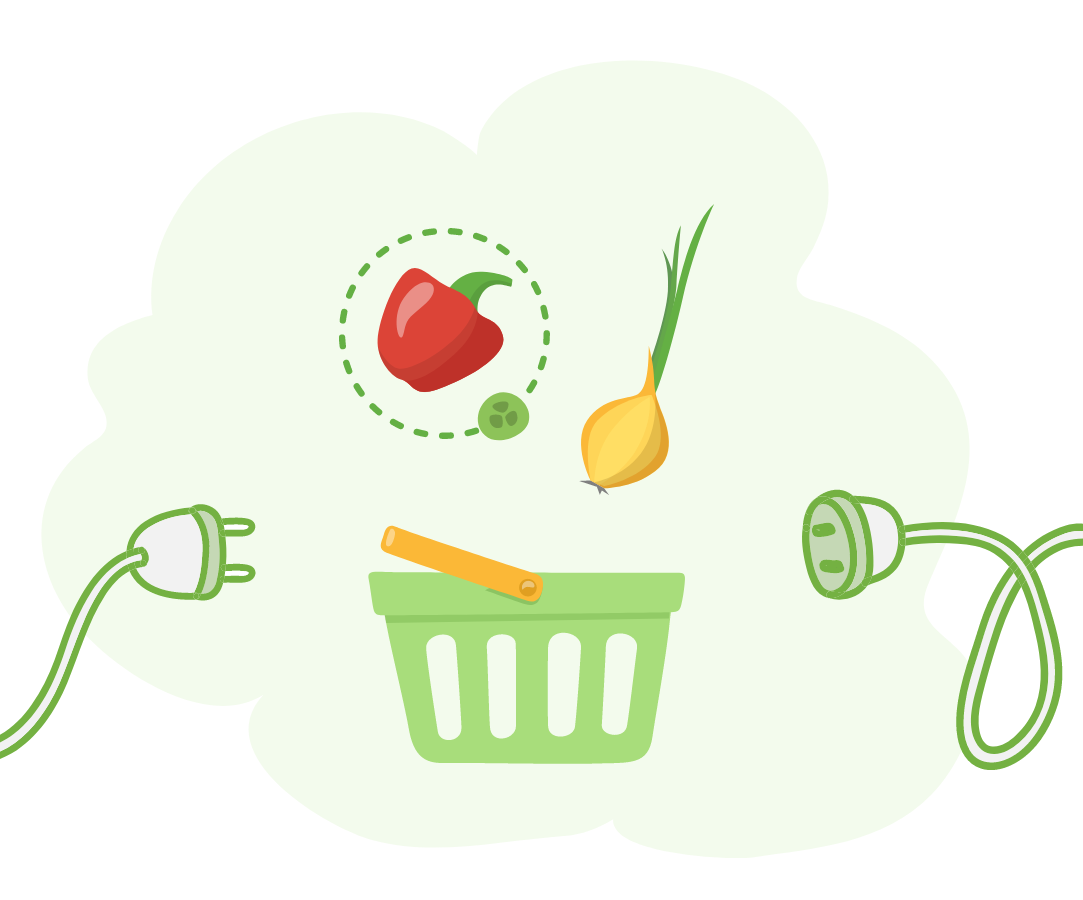
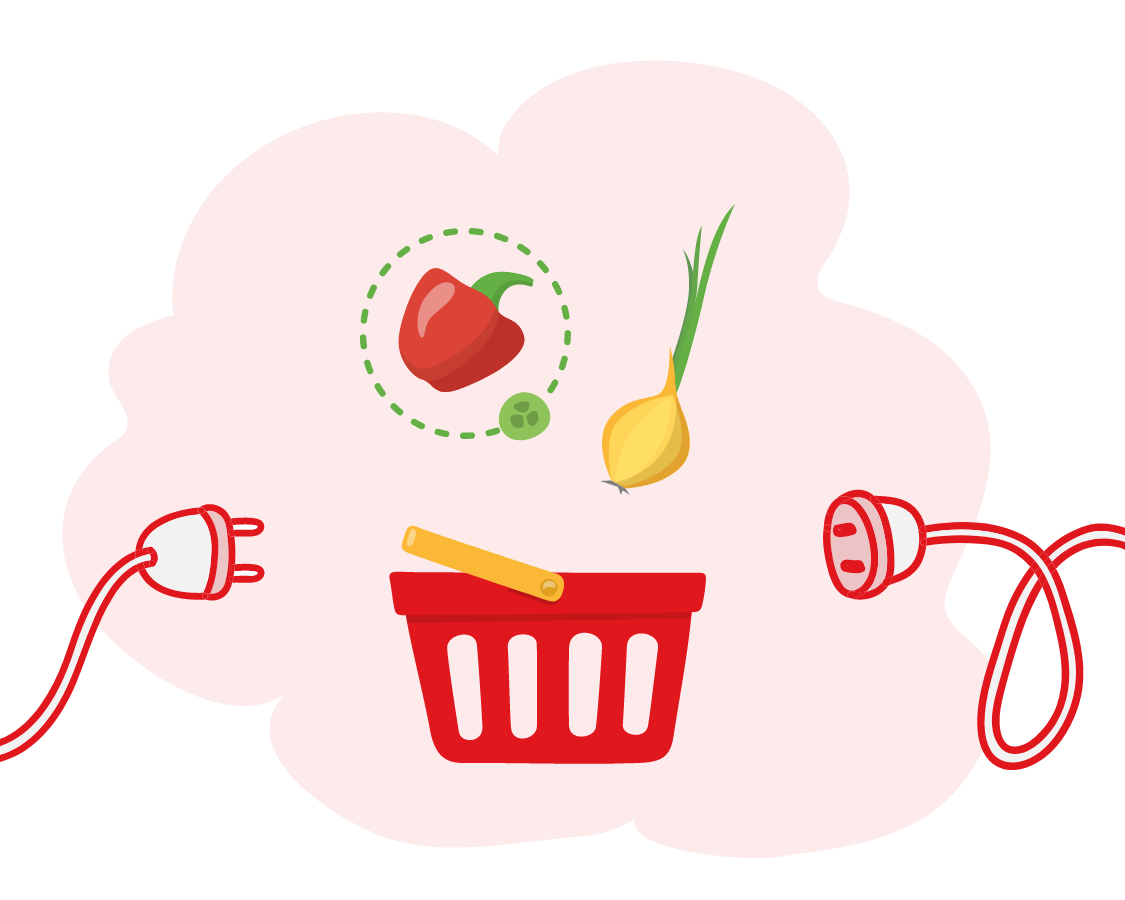
theme color changing, empty cart design, disable slot after 9 fix,issue fix in sheet

diff --git a/src/components/cartStack/CheckoutScreen.js b/src/components/cartStack/CheckoutScreen.js
@@ -19,6 +19,7 @@ const CheckoutScreen = ({ navigation, cartItems, clearCart, getDeliverySlots, ad
     const [nextDayBuffer, setNextDayBuffer] = useState(1)
     const [savedValue, setSavedValue] = useState(0)
     const [slot, setSlot] = useState({})
+    const [disableTomorrowSlot, setDisableTomorrowSlot] = useState(false)
     useEffect(() => {
         if (cartItems.length > 0) {
             let total = cartItems.reduce(function (sum, item) {
@@ -45,8 +46,22 @@ const CheckoutScreen = ({ navigation, cartItems, clearCart, getDeliverySlots, ad
                 setSlot({})
             }
         })
+        var today = new Date();
+        var hour = today.getHours();
+        if (hour >= 21) {
+            setDisableTomorrowSlot(true)
+        }
     }, [nextDayBuffer, userLocation])
 
+    useEffect(() => {
+        var today = new Date();
+        var hour = today.getHours();
+        if (hour >= 21) {
+            // alert(hour)
+            setNextDayBuffer(2)
+            setDisableTomorrowSlot(true)
+        }
+    }, [])
 
     const onClearCart = async () => {
         clearCart()
@@ -86,7 +101,7 @@ const CheckoutScreen = ({ navigation, cartItems, clearCart, getDeliverySlots, ad
 
                 var options = {
                     description: 'Select the payment method',
-                    image: 'https://i.imgur.com/3g7nmJC.png',
+                    image: 'https://d26w0wnuoojc4r.cloudfront.net/zasket_logo_3x.png',
                     currency: 'INR',
                     key: RazorpayApiKey,
                     amount: totalCartValue,
@@ -122,19 +137,26 @@ const CheckoutScreen = ({ navigation, cartItems, clearCart, getDeliverySlots, ad
                 <View style={{ backgroundColor: 'white', paddingVertical: 10, paddingHorizontal: 16, marginTop: 10 }}>
                     <Text style={{ fontWeight: 'bold', fontSize: 16 }}>Book a slot</Text>
                     <View style={{ flexDirection: 'row', justifyContent: 'space-between', marginTop: 10, height: 60 }}>
-                        <TouchableOpacity activeOpacity={0.7} onPress={() => { onPressSlot(1) }} style={{ padding: 10, minWidth: 70, borderWidth: 1, borderRadius: 5, borderColor: nextDayBuffer == 1 ? Theme.Colors.primary : "#EFEFEF", backgroundColor: nextDayBuffer == 1 ? '#F1FAEA' : "white", justifyContent: 'center', alignItems: 'center' }}>
-                            <Text style={{ color: '#727272', fontSize: 12 }}>Tomorrow</Text>
-                            <Text style={{ fontSize: 12, fontWeight: 'bold' }}>{moment().add(1, 'days').format("DD MMM")}</Text>
-                        </TouchableOpacity>
-                        <TouchableOpacity activeOpacity={0.7} onPress={() => { onPressSlot(2) }} style={{ padding: 10, minWidth: 70, borderWidth: 1, borderRadius: 5, borderColor: nextDayBuffer == 2 ? Theme.Colors.primary : "#EFEFEF", backgroundColor: nextDayBuffer == 2 ? '#F1FAEA' : "white", justifyContent: 'center', alignItems: 'center' }}>
+                        {disableTomorrowSlot ?
+                            <View style={{ padding: 10, minWidth: 70, borderWidth: 1, borderRadius: 5, borderColor: "#EFEFEF", backgroundColor: "#F1F1F1", justifyContent: 'center', alignItems: 'center' }}>
+                                <Text style={{ color: '#727272', fontSize: 12 }}>Tomorrow</Text>
+                                <Text style={{ fontSize: 12, fontWeight: 'bold' }}>{moment().add(1, 'days').format("DD MMM")}</Text>
+                            </View>
+                            :
+                            <TouchableOpacity activeOpacity={0.7} onPress={() => { onPressSlot(1) }} style={{ padding: 10, minWidth: 70, borderWidth: 1, borderRadius: 5, borderColor: nextDayBuffer == 1 ? Theme.Colors.primary : "#EFEFEF", backgroundColor: nextDayBuffer == 1 ? '#FDEFEF' : "white", justifyContent: 'center', alignItems: 'center' }}>
+                                <Text style={{ color: '#727272', fontSize: 12 }}>Tomorrow</Text>
+                                <Text style={{ fontSize: 12, fontWeight: 'bold' }}>{moment().add(1, 'days').format("DD MMM")}</Text>
+                            </TouchableOpacity>
+                        }
+                        <TouchableOpacity activeOpacity={0.7} onPress={() => { onPressSlot(2) }} style={{ padding: 10, minWidth: 70, borderWidth: 1, borderRadius: 5, borderColor: nextDayBuffer == 2 ? Theme.Colors.primary : "#EFEFEF", backgroundColor: nextDayBuffer == 2 ? '#FDEFEF' : "white", justifyContent: 'center', alignItems: 'center' }}>
                             <Text style={{ color: '#727272', fontSize: 12 }}>{moment().add(2, 'days').format("ddd")}</Text>
                             <Text style={{ fontSize: 12, fontWeight: 'bold' }}>{moment().add(2, 'days').format("DD MMM")}</Text>
                         </TouchableOpacity>
-                        <TouchableOpacity activeOpacity={0.7} onPress={() => { onPressSlot(3) }} style={{ padding: 10, minWidth: 70, borderWidth: 1, borderRadius: 5, borderColor: nextDayBuffer == 3 ? Theme.Colors.primary : "#EFEFEF", backgroundColor: nextDayBuffer == 3 ? '#F1FAEA' : "white", justifyContent: 'center', alignItems: 'center' }}>
+                        <TouchableOpacity activeOpacity={0.7} onPress={() => { onPressSlot(3) }} style={{ padding: 10, minWidth: 70, borderWidth: 1, borderRadius: 5, borderColor: nextDayBuffer == 3 ? Theme.Colors.primary : "#EFEFEF", backgroundColor: nextDayBuffer == 3 ? '#FDEFEF' : "white", justifyContent: 'center', alignItems: 'center' }}>
                             <Text style={{ color: '#727272', fontSize: 12 }}>{moment().add(3, 'days').format("ddd")}</Text>
                             <Text style={{ fontSize: 12, fontWeight: 'bold' }}>{moment().add(3, 'days').format("DD MMM")}</Text>
                         </TouchableOpacity>
-                        <TouchableOpacity activeOpacity={0.7} onPress={() => { onPressSlot(4) }} style={{ padding: 10, minWidth: 70, borderWidth: 1, borderRadius: 5, borderColor: nextDayBuffer == 4 ? Theme.Colors.primary : "#EFEFEF", backgroundColor: nextDayBuffer == 4 ? '#F1FAEA' : "white", justifyContent: 'center', alignItems: 'center' }}>
+                        <TouchableOpacity activeOpacity={0.7} onPress={() => { onPressSlot(4) }} style={{ padding: 10, minWidth: 70, borderWidth: 1, borderRadius: 5, borderColor: nextDayBuffer == 4 ? Theme.Colors.primary : "#EFEFEF", backgroundColor: nextDayBuffer == 4 ? '#FDEFEF' : "white", justifyContent: 'center', alignItems: 'center' }}>
                             <Text style={{ color: '#727272', fontSize: 12 }}>{moment().add(4, 'days').format("ddd")}</Text>
                             <Text style={{ fontSize: 12, fontWeight: 'bold' }}>{moment().add(4, 'days').format("DD MMM")}</Text>
                         </TouchableOpacity>
@@ -149,7 +171,7 @@ const CheckoutScreen = ({ navigation, cartItems, clearCart, getDeliverySlots, ad
                 </View>
 
                 <View style={{ backgroundColor: 'white', flexDirection: 'row', paddingVertical: 10, paddingHorizontal: 16, marginTop: 10 }}>
-                    <View style={{ width: 60, height: 60, borderWidth: 1, borderRadius: 5, borderColor: Theme.Colors.primary, backgroundColor: '#F1FAEA', justifyContent: 'center', alignItems: 'center' }}>
+                    <View style={{ width: 60, height: 60, borderWidth: 1, borderRadius: 5, borderColor: Theme.Colors.primary, backgroundColor: '#FDEFEF', justifyContent: 'center', alignItems: 'center' }}>
                         <Image
                             style={{ width: 30, height: 30, }}
                             source={require('../../assets/png/locationIcon.png')}
@@ -180,7 +202,7 @@ const CheckoutScreen = ({ navigation, cartItems, clearCart, getDeliverySlots, ad
                                 }</Text>
                             </View>
                             <TouchableOpacity onPress={() => { navigation.navigate('MapScreen', { fromScreen: "CartScreen" }) }} style={{}}>
-                                <Text style={{ color: "#73C92D" }}>Change</Text>
+                                <Text style={{ color: Theme.Colors.primary }}>Change</Text>
                             </TouchableOpacity>
                         </View>
                         <Text numberOfLines={2} style={{ color: "#909090", fontSize: 13, marginTop: 5 }}>{userLocation?.addressLine_1}</Text>
@@ -203,7 +225,7 @@ const CheckoutScreen = ({ navigation, cartItems, clearCart, getDeliverySlots, ad
                         <Text style={{ fontWeight: 'bold' }}>₹ {totalCartValue}</Text>
                     </View>
                     {savedValue > 0 ?
-                        <View style={{ height: 40, width: "100%", flexDirection: 'column', justifyContent: 'center', borderColor: Theme.Colors.primary, alignSelf: 'center', marginTop: 20, borderStyle: 'dashed', borderWidth: 1.5, borderRadius: 4, backgroundColor: "#F1FAEA", alignItems: "center" }}>
+                        <View style={{ height: 40, width: "100%", flexDirection: 'column', justifyContent: 'center', borderColor: Theme.Colors.primary, alignSelf: 'center', marginTop: 20, borderStyle: 'dashed', borderWidth: 1.5, borderRadius: 4, backgroundColor: "#FDEFEF", alignItems: "center" }}>
                             <Text style={{ color: Theme.Colors.primary }}>😊 You have saved Rs {savedValue} in this purchase</Text>
                         </View>
                         : undefined}

diff --git a/src/components/cartStack/CartScreen.js b/src/components/cartStack/CartScreen.js
@@ -41,13 +41,14 @@ const CartScreen = ({ navigation, cartItems, clearCart, userLocation }) => {
     }
 
 
+
     return (
         <View style={{ flex: 1, backgroundColor: 'white' }}>
             <CustomHeader navigation={navigation} title={"Cart"} showSearch={false} />
             <ScrollView ref={scrollViewRef} style={{ flex: 1, backgroundColor: '#F8F8F8' }} showsVerticalScrollIndicator={false}>
                 {/* <Text style={{ textAlign: 'center', marginBottom: 16 }}>{JSON.stringify(location, null, "       ")}</Text> */}
                 <View style={{ backgroundColor: 'white', flexDirection: 'row', paddingVertical: 10, paddingHorizontal: 16, marginTop: 10 }}>
-                    <View style={{ width: 60, height: 60, borderWidth: 1, borderRadius: 5, borderColor: Theme.Colors.primary, backgroundColor: '#F1FAEA', justifyContent: 'center', alignItems: 'center' }}>
+                    <View style={{ width: 60, height: 60, borderWidth: 1, borderRadius: 5, borderColor: Theme.Colors.primary, backgroundColor: '#FDEFEF', justifyContent: 'center', alignItems: 'center' }}>
                         <Image
                             style={{ width: 30, height: 30, }}
                             source={require('../../assets/png/locationIcon.png')}
@@ -79,7 +80,7 @@ const CartScreen = ({ navigation, cartItems, clearCart, userLocation }) => {
                                 </Text>
                             </View>
                             <TouchableOpacity onPress={() => { navigation.navigate('MapScreen', { fromScreen: "CartScreen" }) }} style={{}}>
-                                <Text style={{ color: "#73C92D" }}>Change</Text>
+                                <Text style={{ color: Theme.Colors.primary }}>Change</Text>
                             </TouchableOpacity>
                         </View>
                         <Text numberOfLines={2} style={{ color: "#909090", fontSize: 13, marginTop: 5 }}>{userLocation?.addressLine_1}</Text>
@@ -119,13 +120,29 @@ const CartScreen = ({ navigation, cartItems, clearCart, userLocation }) => {
                                 <Text style={{ fontWeight: 'bold' }}>₹ {totalCartValue}</Text>
                             </View>
                             {savedValue > 0 ?
-                                <View style={{ height: 40, width: "100%", flexDirection: 'column', justifyContent: 'center', borderColor: Theme.Colors.primary, alignSelf: 'center', marginTop: 20, borderStyle: 'dashed', borderWidth: 1.5, borderRadius: 4, backgroundColor: "#F1FAEA", alignItems: "center" }}>
+                                <View style={{ height: 40, width: "100%", flexDirection: 'column', justifyContent: 'center', borderColor: Theme.Colors.primary, alignSelf: 'center', marginTop: 20, borderStyle: 'dashed', borderWidth: 1.5, borderRadius: 4, backgroundColor: "#FDEFEF", alignItems: "center" }}>
                                     <Text style={{ color: Theme.Colors.primary }}>😊 You have saved Rs {savedValue} in this purchase</Text>
                                 </View>
                                 : undefined}
                         </View>
                     </>
-                    : undefined}
+                    :
+                    <View style={[{ flex: 1, alignSelf: 'center', justifyContent: 'center', }]}>
+                        <Image
+                            style={{ height: 250 }}
+                            resizeMode={"center"}
+                            source={require('../../assets/png/emptyCart.png')}
+                        />
+                        <View style={{ width: "80%", alignSelf: 'center' }}>
+                            <Text style={{ alignSelf: 'center', textAlign: 'center', fontWeight: 'bold', fontSize: 18 }}>Your cart is empty!</Text>
+                            <Text style={{ alignSelf: 'center', textAlign: 'center', color: '#727272', fontSize: 12 }}>There is always something good for you.</Text>
+                            <Text style={{ alignSelf: 'center', textAlign: 'center', color: '#727272', fontSize: 12 }}>Add something from the list.</Text>
+                            <TouchableOpacity onPress={() => { navigation.navigate('Home') }} style={{ flex: 1, backgroundColor: Theme.Colors.primary, borderRadius: 100, justifyContent: 'center', alignItems: "center", padding: 10, marginTop: 15, width: 200, alignSelf: 'center' }}>
+                                <Text style={{ color: 'white', fontSize: 17 }}>Add Now</Text>
+                            </TouchableOpacity>
+                        </View>
+                    </View>
+                }
                 {/* <Text style={{ textAlign: 'center', marginBottom: 16 }}>
                     {JSON.stringify(cartItems, null, "       ")}
                 </Text> */}

diff --git a/src/components/ProductScreens/ProductDetailScreen.js b/src/components/ProductScreens/ProductDetailScreen.js
@@ -115,8 +115,14 @@ const ProductDetailScreen = ({ navigation, route, getItem, addToCart, updateCart
                     <Text style={{ marginTop: 5, fontSize: 20, color: '#2E2E2E', fontWeight: 'bold', textTransform: 'capitalize' }}>{item?.itemName}</Text>
                     <View style={{ flexDirection: 'row', marginTop: 5, alignItems: 'center' }}>
                         <Text style={{ fontSize: 18, color: '#2E2E2E', fontWeight: 'bold', textTransform: 'capitalize' }}>₹{item?.discountedPrice}</Text>
-                        <Text style={{ fontSize: 15, color: '#909090', textDecorationLine: 'line-through', marginLeft: 10 }}>₹{item?.actualPrice}</Text>
-                        <Text style={{ fontSize: 15, color: Theme.Colors.primary, marginLeft: 10 }}>{(((item?.actualPrice - item?.discountedPrice) / item?.actualPrice) * 100).toFixed(0)}% off</Text>
+                        {item?.discountedPrice == item?.actualPrice ?
+                            undefined :
+                            <Text style={{ fontSize: 14, color: '#909090', textDecorationLine: 'line-through', marginLeft: 10 }}>₹{item?.actualPrice}</Text>
+                        }
+                        {(((item?.actualPrice - item?.discountedPrice) / item?.actualPrice) * 100).toFixed(0) == 0 ?
+                            undefined :
+                            <Text style={{ fontSize: 15, color: Theme.Colors.primary, marginLeft: 10 }}>{(((item?.actualPrice - item?.discountedPrice) / item?.actualPrice) * 100).toFixed(0)}% off</Text>
+                        }
                     </View>
                     <Text style={{ marginTop: 5, color: '#909090', }}>{item?.itemSubName}</Text>
                     <Text style={{ marginTop: 10, color: '#727272', }}>{item?.itemDescription}</Text>
@@ -133,12 +139,11 @@ const ProductDetailScreen = ({ navigation, route, getItem, addToCart, updateCart
                     <Text style={{ alignSelf: 'center', color: 'white', fontWeight: 'bold' }}>+  Add</Text>
                 </TouchableOpacity>
                 : <View style={{ backgroundColor: Theme.Colors.primary, height: 50, flexDirection: 'row', justifyContent: 'space-evenly' }}>
-
-                    <TouchableOpacity onPress={() => onCartUpdate('DECREASE')} style={{ width: 35, height: 35, backgroundColor: "#60B11F", borderRadius: 4, justifyContent: 'center', alignSelf: 'center' }}>
+                    <TouchableOpacity onPress={() => onCartUpdate('DECREASE')} style={{ width: 35, height: 35, backgroundColor: "#B90E14", borderRadius: 4, justifyContent: 'center', alignSelf: 'center' }}>
                         <Text style={{ alignSelf: 'center', color: 'white', fontWeight: 'bold', fontSize: 20 }}>-</Text>
                     </TouchableOpacity>
                     <Text style={{ color: 'white', alignSelf: 'center', fontSize: 18 }}>{count}</Text>
-                    <TouchableOpacity onPress={() => onCartUpdate('INCREASE')} style={{ width: 35, height: 35, backgroundColor: "#60B11F", borderRadius: 4, justifyContent: 'center', alignSelf: 'center' }}>
+                    <TouchableOpacity onPress={() => onCartUpdate('INCREASE')} style={{ width: 35, height: 35, backgroundColor: "#B90E14", borderRadius: 4, justifyContent: 'center', alignSelf: 'center' }}>
                         <Text style={{ alignSelf: 'center', color: 'white', fontWeight: 'bold', fontSize: 20 }}>+</Text>
                     </TouchableOpacity>
                 </View>

diff --git a/src/components/AccountStack/MyOrders.js b/src/components/AccountStack/MyOrders.js
@@ -50,6 +50,30 @@ const MyOrders = ({ navigation, getCustomerOrders }) => {
                     renderItem={({ item }) =>
                         <CardMyOrders item={item} />
                     }
+                    ListEmptyComponent={() => {
+                        return (
+                            <View style={[{ flex: 1, alignSelf: 'center', justifyContent: 'center', }]}>
+                                {loading ?
+                                    undefined
+                                    :
+                                    <>
+                                        <Image
+                                            style={{ height: 250 }}
+                                            resizeMode={"center"}
+                                            source={require('../../assets/png/emptyCart.png')}
+                                        />
+                                        <View style={{ width: "80%", alignSelf: 'center' }}>
+                                            <Text style={{ alignSelf: 'center', textAlign: 'center', fontWeight: 'bold', fontSize: 18 }}>No orders found</Text>
+                                            <Text style={{ alignSelf: 'center', textAlign: 'center', color: '#727272', fontSize: 12 }}>There is always something good for you.</Text>
+                                            <Text style={{ alignSelf: 'center', textAlign: 'center', color: '#727272', fontSize: 12 }}>Add something to cart.</Text>
+                                            <TouchableOpacity onPress={() => { navigation.navigate('Home') }} style={{ flex: 1, backgroundColor: Theme.Colors.primary, borderRadius: 100, justifyContent: 'center', alignItems: "center", padding: 10, marginTop: 15, width: 200, alignSelf: 'center' }}>
+                                                <Text style={{ color: 'white', fontSize: 17 }}>Add Now</Text>
+                                            </TouchableOpacity>
+                                        </View>
+                                    </>}
+                            </View>
+                        )
+                    }}
                 // keyExtractor={item => item?.id.toString()}
                 />
             </ScrollView>

diff --git a/src/components/HomeScreen/ProductCard.js b/src/components/HomeScreen/ProductCard.js
@@ -76,8 +76,14 @@ const ProductCard = ({ item, navigation, addToCart, updateCart, cartItems }) => 
                     <Text numberOfLines={1} style={{ fontSize: 14, color: '#2E2E2E', fontWeight: 'bold', textTransform: 'capitalize' }}>{item?.itemName}</Text>
                     <View style={{ flexDirection: 'row', marginTop: 5 }}>
                         <Text style={{ fontSize: 14, color: '#2E2E2E', fontWeight: 'bold', textTransform: 'capitalize' }}>₹{item?.discountedPrice}</Text>
-                        <Text style={{ fontSize: 14, color: '#909090', textDecorationLine: 'line-through', marginLeft: 10 }}>₹{item?.actualPrice}</Text>
-                        <Text style={{ fontSize: 14, color: Theme.Colors.primary, marginLeft: 10 }}>{(((item?.actualPrice - item?.discountedPrice) / item?.actualPrice) * 100).toFixed(0)}% off</Text>
+                        {item?.discountedPrice == item?.actualPrice ?
+                            undefined :
+                            <Text style={{ fontSize: 14, color: '#909090', textDecorationLine: 'line-through', marginLeft: 10 }}>₹{item?.actualPrice}</Text>
+                        }
+                        {(((item?.actualPrice - item?.discountedPrice) / item?.actualPrice) * 100).toFixed(0) == 0 ?
+                            undefined :
+                            <Text style={{ fontSize: 15, color: Theme.Colors.primary, marginLeft: 10 }}>{(((item?.actualPrice - item?.discountedPrice) / item?.actualPrice) * 100).toFixed(0)}% off</Text>
+                        }
                     </View>
                     <Text numberOfLines={1} style={{ fontSize: 12, color: '#909090', marginVertical: 5 }}>{item?.itemSubName}</Text>
                 </View>

diff --git a/src/components/SearchStack/SearchScreen.js b/src/components/SearchStack/SearchScreen.js
@@ -60,16 +60,15 @@ const SearchScreen = ({ navigation, searchItems }) => {
                 {loading ?
                     <ActivityIndicator style={{}} size="large" color="grey" />
                     : searchTerm.length > 2 ?
-                        <View style={{ justifyContent: 'center', alignItems: 'center' }}>
-                            <Draggable>
-                                <LottieView
-                                    style={{ width: '70%' }}
-                                    source={require("../../assets/animations/sadSearch.json")}
-                                    autoPlay
-                                    loop
-                                />
-                            </Draggable>
-                            {/* <Text>No items found</Text> */}
+                        <View style={{ alignItems: 'center' }}>
+                            <Image
+                                style={{ width: 250, height: 250 }}
+                                resizeMode="center"
+                                source={require("../../assets/png/sadSearch.png")}
+                            />
+                            <Text style={{ alignSelf: 'center', textAlign: 'center', fontWeight: 'bold', fontSize: 18 }}>Nothing Found!</Text>
+                            <Text style={{ alignSelf: 'center', textAlign: 'center', color: '#727272', fontSize: 12 }}>We cannot find what you are looking for.</Text>
+                            <Text style={{ alignSelf: 'center', textAlign: 'center', color: '#727272', fontSize: 12 }}>Try search something else.</Text>
                         </View>
                         :
                         <>

diff --git a/src/components/ProductScreens/CardProductListScreen.js b/src/components/ProductScreens/CardProductListScreen.js
@@ -85,8 +85,14 @@ const CardProductListScreen = ({ item, navigation, addToCart, updateCart, cartIt
                     <Text numberOfLines={1} style={{ fontSize: 14, color: '#2E2E2E', fontWeight: 'bold', textTransform: 'capitalize' }}>{item?.itemName}</Text>
                     <View style={{ flexDirection: 'row' }}>
                         <Text style={{ fontSize: 14, color: '#2E2E2E', fontWeight: 'bold', textTransform: 'capitalize' }}>₹{item?.discountedPrice}</Text>
-                        <Text style={{ fontSize: 14, color: '#909090', textDecorationLine: 'line-through', marginLeft: 10 }}>₹{item?.actualPrice}</Text>
-                        <Text style={{ fontSize: 14, color: Theme.Colors.primary, marginLeft: 10 }}>{(((item?.actualPrice - item?.discountedPrice) / item?.actualPrice) * 100).toFixed(0)}% off</Text>
+                        {item?.discountedPrice == item?.actualPrice ?
+                            undefined :
+                            <Text style={{ fontSize: 14, color: '#909090', textDecorationLine: 'line-through', marginLeft: 10 }}>₹{item?.actualPrice}</Text>
+                        }
+                        {(((item?.actualPrice - item?.discountedPrice) / item?.actualPrice) * 100).toFixed(0) == 0 ?
+                            undefined :
+                            <Text style={{ fontSize: 15, color: Theme.Colors.primary, marginLeft: 10 }}>{(((item?.actualPrice - item?.discountedPrice) / item?.actualPrice) * 100).toFixed(0)}% off</Text>
+                        }
                     </View>
                     <Text style={{ fontSize: 12, color: '#909090', }}>{item?.itemSubName}</Text>
                 </View>

diff --git a/src/components/AccountStack/SupportScreen.js b/src/components/AccountStack/SupportScreen.js
@@ -28,7 +28,7 @@ const SupportScreen = ({ navigation }) => {
                 <View style={{ backgroundColor: 'white', padding: 15, marginTop: 10 }}>
                     <Text style={{}}>We are Available to assist you from 10AM - 7PM on all days</Text>
                     <View style={{ borderWidth: 1, borderColor: "#EFEFEF", borderRadius: 6, padding: 10, flexDirection: 'row', marginTop: 15 }}>
-                        <View style={{ backgroundColor: '#F1FAEA', borderRadius: 50, width: 50, height: 50, justifyContent: 'center', alignItems: 'center' }}>
+                        <View style={{ backgroundColor: '#FDEFEF', borderRadius: 50, width: 50, height: 50, justifyContent: 'center', alignItems: 'center' }}>
                             <Image
                                 style={{ width: 20, height: 20, }}
                                 resizeMode="contain"
@@ -42,7 +42,7 @@ const SupportScreen = ({ navigation }) => {
                     </View>
 
                     <View style={{ borderWidth: 1, borderColor: "#EFEFEF", borderRadius: 6, padding: 10, flexDirection: 'row', marginTop: 15 }}>
-                        <View style={{ backgroundColor: '#F1FAEA', borderRadius: 50, width: 50, height: 50, justifyContent: 'center', alignItems: 'center' }}>
+                        <View style={{ backgroundColor: '#FDEFEF', borderRadius: 50, width: 50, height: 50, justifyContent: 'center', alignItems: 'center' }}>
                             <Image
                                 style={{ width: 20, height: 20, }}
                                 resizeMode="contain"

diff --git a/src/components/MapStack/PincodeScreen.js b/src/components/MapStack/PincodeScreen.js
@@ -101,7 +101,7 @@ const PincodeScreen = ({ navigation, darkMode, setDarkMode, login, loginWithProv
 
                         {availablity == "AVAILABLE" ?
                             <View>
-                                <Text style={{ marginTop: "4%", fontSize: 20, fontWeight: Platform.OS == "ios" ? "500" : "700", letterSpacing: .3, textAlign: 'center', color: "#5CA123" }}>Choose your Delivery Address</Text>
+                                <Text style={{ marginTop: "4%", fontSize: 20, fontWeight: Platform.OS == "ios" ? "500" : "700", letterSpacing: .3, textAlign: 'center' }}>Choose your Delivery Address</Text>
                                 <Text style={{ marginTop: "2%", fontSize: 14, color: "#727272", textAlign: 'center' }}>Let’s first check our service is available at
                                 your location or not? Because We value your time!</Text>
                                 {/* <Text style={{ marginTop: "2%", fontSize: 14, color: "#2B2E30", textAlign: 'center', fontWeight: 'bold' }}>Now Choose your Delivery Address</Text> */}

diff --git a/src/components/cartStack/CardCartScreen.js b/src/components/cartStack/CardCartScreen.js
@@ -112,7 +112,10 @@ const CardCartScreen = ({ item, navigation, addToCart, updateCart, cartItems, de
                     <TouchableOpacity onPress={() => onDeleteItem()} style={{ backgroundColor: 'white', position: 'absolute', top: 0, padding: 10 }}>
                         <Icon name="trash-o" type="FontAwesome" style={{ fontSize: 20 }} />
                     </TouchableOpacity>
-                    <Text style={{ fontSize: 14, color: '#909090', textDecorationLine: 'line-through', }}>₹{item?.actualPrice * item?.count}</Text>
+                    {item?.discountedPrice == item?.actualPrice ?
+                        undefined :
+                        <Text style={{ fontSize: 14, color: '#909090', textDecorationLine: 'line-through', marginLeft: 10 }}>₹{item?.actualPrice}</Text>
+                    }
                     <Text style={{ fontSize: 14, color: '#2E2E2E', fontWeight: 'bold', textTransform: 'capitalize' }}>₹{item?.discountedPrice * item?.count}</Text>
                 </View>
             </TouchableOpacity>

diff --git a/src/components/MapStack/MapScreen.js b/src/components/MapStack/MapScreen.js
@@ -427,7 +427,7 @@ class MyMapView extends React.Component {
                                     <Text style={{ color: "#727272", fontSize: 13 }}>Your current location</Text>
                                 </View>
                                 <TouchableOpacity activeOpacity={0.7} onPress={() => { this.setState({ modalVisible: true }) }} style={{ padding: 5 }}>
-                                    <Text style={{ color: "#73C92D" }}>Change</Text>
+                                    <Text style={{ color: Theme.Colors.primary }}>Change</Text>
                                 </TouchableOpacity>
                             </View>
                             {this.state.addressLoading ?

diff --git a/src/components/common/NoInternetModal.tsx b/src/components/common/NoInternetModal.tsx
@@ -24,7 +24,7 @@ const NoInternetModal = ({ darkMode }: any) => {
                 source={require('../../assets/png/noInternet.png')}
             />
             <View style={{ justifyContent: 'center', alignItems: 'center', marginTop: 50 }}>
-                <Text style={{ fontSize: 24 }}>Connection Error</Text>
+                <Text style={{ fontSize: 24, fontWeight: 'bold' }}>Connection Error</Text>
                 <Text style={{ color: "#727272", alignSelf: 'center', textAlign: 'center', paddingHorizontal: 20 }}>Please try checking your internet connection & try again</Text>
             </View>
         </SafeAreaView>
